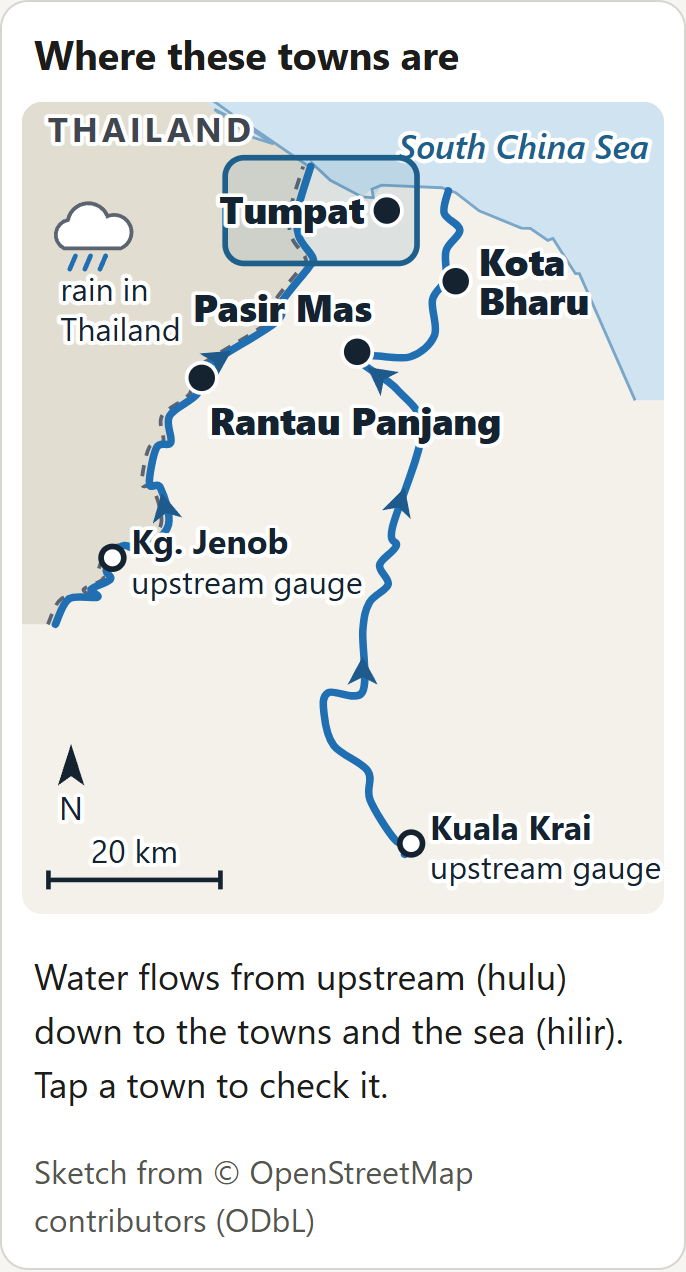
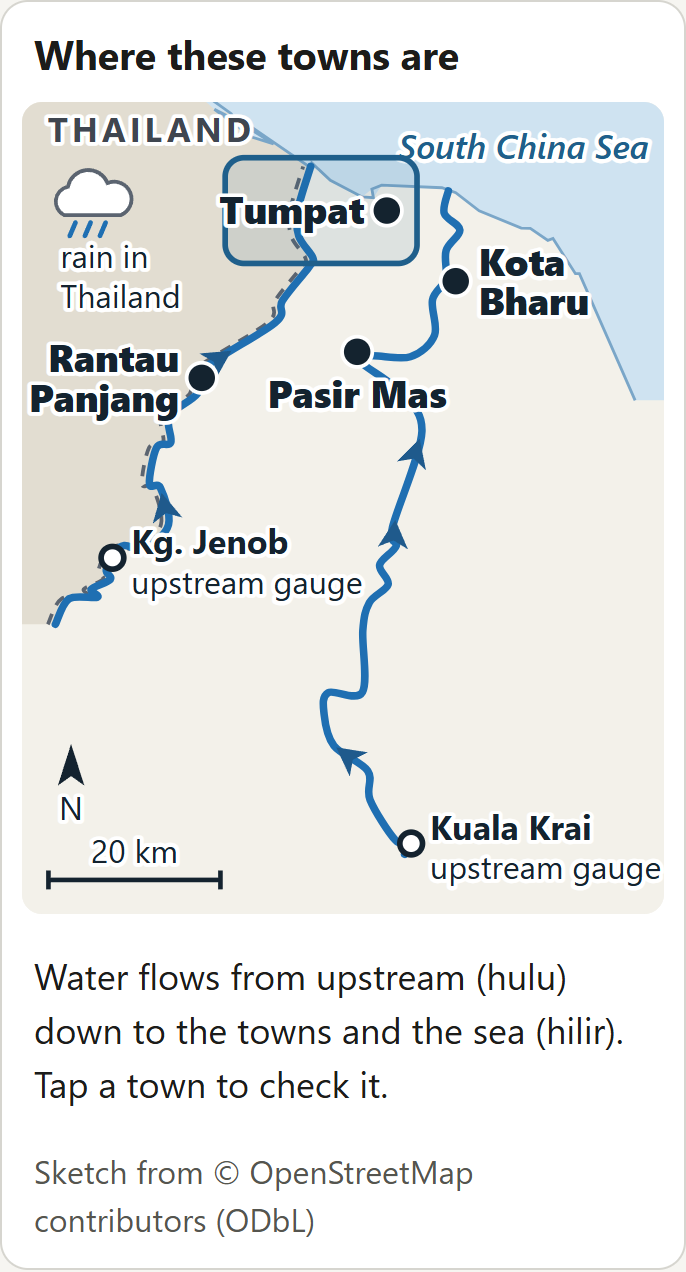
fix: B-87 map labels by their own dots: Rantau Panjang left over Thailand (two lines), Pasir Mas below its dot, rain cloud up; test that each label is nearest its own dot; README test count 944

Changed region(s): [[0.0306, 0.1226, 0.7347, 0.4292], [0.5204, 0.5212, 0.551, 0.5519], [0.4898, 0.5825, 0.5204, 0.6132]]

diff --git a/app/web/index.html b/app/web/index.html
@@ -229,14 +229,14 @@
 <path d="M324.7 158.0 L295.2 90.9 L293.1 90.9 L281.2 72.3 L278.5 73.3 L269.2 66.9 L264.4 66.8 L242.1 57.6 L229.7 48.0 L222.4 45.4 L190.5 44.0 L185.3 46.1 L186.1 50.7 L180.1 50.3 L163.3 41.5 L153.8 32.6 L154.0 34.3 L151.5 33.8 L114.0 8.1 L113.9 9.9 L133.2 22.2 L122.1 18.7 L101.9 3.9 L112.7 9.4 L110.8 6.2 L77.4 -17.8 L43.4 -56.9 L31.3 -60.2 L23.0 -70.0 L20.7 -67.7 L13.5 -71.2 L-15.4 -108.7 L-31.0 -132.6" class="m-coast"/>
 <path d="M202.6 398.4 C203.0 397.4 206.0 393.4 205.2 392.2 C204.4 391.0 201.3 394.8 197.8 391.0 C194.3 387.2 186.8 375.6 184.3 369.5 C181.9 363.4 186.3 359.0 183.1 354.2 C179.9 349.4 169.0 345.9 165.2 340.9 C161.3 335.9 160.5 329.0 160.0 324.3 C159.5 319.6 158.7 314.8 162.1 312.8 C165.5 310.8 177.2 318.0 180.3 312.5 C183.4 307.0 179.9 287.8 180.5 279.9 C181.1 272.0 181.8 269.2 184.0 265.1 C186.2 261.0 193.0 258.8 193.9 255.5 C194.8 252.2 188.7 248.6 189.4 245.2 C190.1 241.8 197.1 238.4 198.2 235.1 C199.3 231.8 193.9 235.3 196.2 225.2 C198.5 215.1 211.4 186.6 211.8 174.5 C212.2 162.4 204.2 158.6 198.9 152.5 C193.6 146.4 182.2 141.1 179.9 138.1 C177.6 135.1 180.8 134.9 185.1 134.4 C189.4 133.9 200.1 136.7 205.7 134.9 C211.3 133.1 216.6 128.5 218.5 123.5 C220.4 118.5 216.4 109.8 217.4 104.8 C218.4 99.8 223.2 98.1 224.4 93.8 C225.6 89.5 223.3 83.0 224.6 78.7 C225.8 74.4 232.1 71.1 231.9 67.8 C231.7 64.5 224.6 62.3 223.6 58.9 C222.6 55.5 225.4 49.1 225.8 47.1" class="m-river"/>
 <path d="M17.7 276.6 C18.9 274.4 21.2 265.5 24.9 263.1 C28.6 260.7 37.9 263.2 39.9 262.3 C41.9 261.4 35.6 259.6 36.7 258.0 C37.9 256.4 45.5 254.5 46.8 252.8 C48.1 251.1 44.3 250.1 44.6 247.8 C44.9 245.5 46.9 241.1 48.5 238.9 C50.1 236.8 51.5 235.3 54.2 234.9 C57.0 234.5 61.1 238.3 65.0 236.5 C68.9 234.7 76.2 229.2 77.6 223.8 C79.0 218.4 75.0 207.9 73.3 204.3 C71.6 200.7 67.8 205.8 67.5 202.2 C67.2 198.6 69.4 186.7 71.3 183.0 C73.2 179.3 77.7 183.0 78.8 180.2 C79.9 177.4 75.8 170.6 78.1 166.3 C80.4 162.0 90.0 158.5 92.9 154.4 C95.9 150.3 88.9 147.9 95.8 141.6 C102.7 135.3 127.1 122.8 134.1 116.8 C141.1 110.8 134.9 110.2 137.9 105.3 C140.9 100.4 149.2 91.3 151.9 87.5 C154.6 83.7 154.9 85.1 154.0 82.4 C153.1 79.7 147.9 75.3 146.6 71.1 C145.3 66.9 144.9 63.6 146.0 57.4 C147.1 51.2 151.8 38.0 152.9 34.1" class="m-river"/>
-<path d="M-7 -8 L8 0 L-7 8 L-3 0 Z" transform="translate(180.4 301.6) rotate(-90)" class="m-arrow"/><path d="M-7 -8 L8 0 L-7 8 L-3 0 Z" transform="translate(200.3 211.9) rotate(-73)" class="m-arrow"/><path d="M-7 -8 L8 0 L-7 8 L-3 0 Z" transform="translate(189.2 145.2) rotate(-143)" class="m-arrow"/><path d="M-7 -8 L8 0 L-7 8 L-3 0 Z" transform="translate(75.6 214.8) rotate(-102)" class="m-arrow"/><path d="M-7 -8 L8 0 L-7 8 L-3 0 Z" transform="translate(104.2 136.1) rotate(-33)" class="m-arrow"/>
+<path d="M-7 -8 L8 0 L-7 8 L-3 0 Z" transform="translate(172.8 346.6) rotate(-143)" class="m-arrow"/><path d="M-7 -8 L8 0 L-7 8 L-3 0 Z" transform="translate(197.0 229.2) rotate(-85)" class="m-arrow"/><path d="M-7 -8 L8 0 L-7 8 L-3 0 Z" transform="translate(208.3 186.0) rotate(-73)" class="m-arrow"/><path d="M-7 -8 L8 0 L-7 8 L-3 0 Z" transform="translate(75.6 214.8) rotate(-102)" class="m-arrow"/><path d="M-7 -8 L8 0 L-7 8 L-3 0 Z" transform="translate(104.2 136.1) rotate(-33)" class="m-arrow"/>
 <text x="13.6" y="21.1" class="m-label m-thai-label" data-t="map_thailand"></text>
-<g transform="translate(36.3 71.5)" class="m-cloud"><path d="M-14 6 a8 8 0 0 1 2 -15 a11 11 0 0 1 21 -2 a8 8 0 0 1 7 17 Z"/><path d="M-8 10 l-3 7 M0 10 l-3 7 M8 10 l-3 7" class="m-rain"/><text x="-16" y="34" class="m-label m-small" data-t="map_rain1"></text><text x="-16" y="55" class="m-label m-small" data-t="map_rain2"></text></g>
+<g transform="translate(36.3 53.9)" class="m-cloud"><path d="M-14 6 a8 8 0 0 1 2 -15 a11 11 0 0 1 21 -2 a8 8 0 0 1 7 17 Z"/><path d="M-8 10 l-3 7 M0 10 l-3 7 M8 10 l-3 7" class="m-rain"/><text x="-16" y="34" class="m-label m-small" data-t="map_rain1"></text><text x="-16" y="55" class="m-label m-small" data-t="map_rain2"></text></g>
 <text x="332" y="30.1" class="m-label m-sea-label" text-anchor="end" data-t="map_sea"></text>
 <circle cx="206.1" cy="392.7" r="6" class="m-gauge"/><text x="216.1" y="390.7" text-anchor="start" class="m-label">Kuala Krai</text><text x="216.1" y="411.7" text-anchor="start" class="m-label m-small" data-t="map_gauge"></text>
 <circle cx="47.9" cy="241.4" r="6" class="m-gauge"/><text x="57.9" y="239.4" text-anchor="start" class="m-label">Kg. Jenob</text><text x="57.9" y="260.4" text-anchor="start" class="m-label m-small" data-t="map_gauge"></text>
-<g class="m-town" role="button" tabindex="0" data-town="Pasir Mas"><rect x="65.1" y="86.3" width="128.4" height="54" rx="10" class="m-hit"/><circle cx="177.5" cy="132.3" r="8" class="m-dot"/><text x="185.5" y="116.30000000000001" text-anchor="end" class="m-label m-town-label">Pasir Mas</text></g>
-<g class="m-town" role="button" tabindex="0" data-town="Rantau Panjang"><rect x="79.2" y="141.1" width="186.4" height="56" rx="10" class="m-hit"/><circle cx="95.2" cy="146.1" r="8" class="m-dot"/><text x="99.2" y="176.1" text-anchor="start" class="m-label m-town-label">Rantau Panjang</text></g>
+<g class="m-town" role="button" tabindex="0" data-town="Pasir Mas"><rect x="119.3" y="124.3" width="116.4" height="56" rx="10" class="m-hit"/><circle cx="177.5" cy="132.3" r="8" class="m-dot"/><text x="177.5" y="162.3" text-anchor="middle" class="m-label m-town-label">Pasir Mas</text></g>
+<g class="m-town" role="button" tabindex="0" data-town="Rantau Panjang"><rect x="0.0" y="118.1" width="111.2" height="56" rx="10" class="m-hit"/><circle cx="95.2" cy="146.1" r="8" class="m-dot"/><text x="83.2" y="143.1" text-anchor="end" class="m-label m-town-label">Rantau<tspan x="83.2" dy="21">Panjang</tspan></text></g>
 <g class="m-town" role="button" tabindex="0" data-town="Kota Bharu"><rect x="213.7" y="66.9" width="90.0" height="56" rx="10" class="m-hit"/><circle cx="229.7" cy="94.9" r="8" class="m-dot"/><text x="241.7" y="91.9" class="m-label m-town-label">Kota<tspan x="241.7" dy="21">Bharu</tspan></text></g>
 <g class="m-town" role="button" tabindex="0" data-town="Tumpat"><rect x="107.6" y="29.5" width="101.6" height="56" rx="10" class="m-hit"/><circle cx="193.2" cy="57.5" r="8" class="m-dot"/><text x="181.2" y="64.5" text-anchor="end" class="m-label m-town-label">Tumpat</text></g>
 <g transform="translate(26 356)" class="m-north"><path d="M0 -16 L7 6 L0 1 L-7 6 Z"/><text x="0" y="24" text-anchor="middle" class="m-label m-small">N</text></g>

diff --git a/scripts/make_home_map.py b/scripts/make_home_map.py
@@ -31,7 +31,7 @@ DRAW_KM = 0.6                                    # simplified again when drawn, 
 UPSTREAM = ("5521044_DKKI0014", "_DTMH0008")    # Sg. Kelantan di Kuala Krai, Sg. Golok di Kg. Jenob
 # Label side per town, chosen so the four tap targets never overlap (Tumpat / Kota Bharu / Pasir Mas are close)
 # (side, how far the label's centre / start moves right of the dot). Measured at 375 px: no two targets overlap.
-SIDE = {"Rantau Panjang": ("right-below", 0), "Pasir Mas": ("above-end", 0), "Kota Bharu": ("right2", 0),
+SIDE = {"Rantau Panjang": ("left2", 0), "Pasir Mas": ("below", 0), "Kota Bharu": ("right2", 0),
         "Tumpat": ("left", 0)}
 
 
@@ -212,10 +212,10 @@ def build():
         parts.append(f'<path d="{path(line, xy)}" class="m-coast"/>')
     for line in (kel, golok):
         parts.append(f'<path d="{curve(line, xy)}" class="m-river"/>')
-    parts.append(arrows(kel, xy, (0.22, 0.5, 0.74)) + arrows(golok, xy, ([JPS reading], [JPS reading])))   # 3 + 2, downstream
+    parts.append(arrows(kel, xy, (0.2, [JPS reading], [JPS reading])) + arrows(golok, xy, ([JPS reading], [JPS reading])))   # 3 + 2, downstream
     tx, ty = xy(6.27, 101.815)
     parts.append(f'<text x="{tx}" y="{ty}" class="m-label m-thai-label" data-t="map_thailand"></text>')
-    cx, cy = xy(6.17, 101.86)                    # rain cloud inside the Thai side, clear of the river
+    cx, cy = xy(6.205, 101.86)                   # rain cloud inside the Thai side, above the Rantau Panjang label
     parts.append(f'<g transform="translate({cx} {cy})" class="m-cloud"><path d="M-14 6 a8 8 0 0 1 2 -15 a11 11 0 0 1 '
                  f'21 -2 a8 8 0 0 1 7 17 Z"/><path d="M-8 10 l-3 7 M0 10 l-3 7 M8 10 l-3 7" class="m-rain"/>'
                  f'<text x="-16" y="34" class="m-label m-small" data-t="map_rain1"></text>'
@@ -234,7 +234,13 @@ def build():
     for name, lat, lon in towns:
         x, y = xy(lat, lon)
         (side, dx), wl = SIDE[name], len(name) * 11.6     # label width at 20 units, bold
-        if side == "right2":                        # two lines (Kota / Bharu): fits inside the map's east edge
+        if side == "left2":                         # two lines over the Thai side (Rantau / Panjang), right-aligned
+            first, second = name.split(" ", 1)
+            wl = max(len(first), len(second)) * 11.6
+            label = (f'<text x="{x - 12}" y="{y - 3}" text-anchor="end" class="m-label m-town-label">{first}'
+                     f'<tspan x="{x - 12}" dy="21">{second}</tspan></text>')
+            box = (max(0.0, x - 28 - wl), y - 28, x + 16 - max(0.0, x - 28 - wl), 56)
+        elif side == "right2":                      # two lines (Kota / Bharu): fits inside the map's east edge
             first, second = name.split(" ", 1)
             wl = max(len(first), len(second)) * 11.6
             label = (f'<text x="{x + 12}" y="{y - 3}" class="m-label m-town-label">{first}'
@@ -249,8 +255,8 @@ def build():
         elif side == "above-end":                   # above-left of the dot, ending just past it
             lx, ly, anchor, box = x + 8, y - 16, "end", (x + 16 - wl - 24, y - 46, wl + 24, 54)
         else:
-            lx, ly, anchor, box = x + dx, y + 30, "middle", (x + dx - wl / 2 - 6, y - 16, wl + 12, 56)
-        if side != "right2":
+            lx, ly, anchor, box = x + dx, y + 30, "middle", (x + dx - wl / 2 - 6, y - 8, wl + 12, 56)
+        if side not in ("right2", "left2"):
             label = f'<text x="{lx}" y="{ly}" text-anchor="{anchor}" class="m-label m-town-label">{name}</text>'
         bx, by, bw, bh = (round(v, 1) for v in box)
         parts.append(f'<g class="m-town" role="button" tabindex="0" data-town="{name}">'

diff --git a/tests/test_home_map.py b/tests/test_home_map.py
@@ -61,3 +61,20 @@ def test_map_wording_and_placement():
     assert PAGE.index('id="towns"') < PAGE.index('id="few-readings"') < PAGE.index('id="map-box"')
     assert SVG.count('class="m-gauge"') == 2 and "Kuala Krai" in SVG and "Kg. Jenob" in SVG
     assert "20 km" in SVG and 'class="m-north"' in SVG and 'class="m-cloud"' in SVG
+
+
+def test_each_town_label_is_nearest_its_own_dot():
+    """Cowork 24 Oct (5c): a label never reads as another town's - its centre is nearer its own dot than any other."""
+    dots, labels = {}, {}
+    for m in re.finditer(r'data-town="([^"]+)">.*?<circle cx="([\d.]+)" cy="([\d.]+)" r="8" class="m-dot"/>'
+                         r'<text x="([\d.]+)" y="([\d.]+)"(?: text-anchor="(\w+)")?[^>]*>([^<]+)(?:<tspan[^>]*>([^<]+))?',
+                         SVG):
+        town, cx, cy, tx, ty, anchor, first, second = m.groups()
+        w = max(len(first), len(second or "")) * 11.6
+        x0 = float(tx) - (w if anchor == "end" else w / 2 if anchor == "middle" else 0)
+        dots[town] = (float(cx), float(cy))
+        labels[town] = (x0 + w / 2, float(ty) - 7 + (10 if second else 0))
+    assert set(dots) == set(TOWNS)
+    for town, (lx, ly) in labels.items():
+        own = (lx - dots[town][0]) ** 2 + (ly - dots[town][1]) ** 2
+        assert all(own < (lx - x) ** 2 + (ly - y) ** 2 for t, (x, y) in dots.items() if t != town), town

diff --git a/docs/OPEN.md b/docs/OPEN.md
@@ -4,7 +4,7 @@ Only two kinds of item live here (Husaini 23 Oct): **open audit findings** and *
 (what to build, in what order) is the backlog in the private planning folder; IDs `B-xx` / `S-xx` point there.
 Status lives here and in the backlog, never in Claude's memory. A finished item is deleted (git keeps the history).
 
-Last updated: 24 Oct 2026 (after B-71, B-86, A-P2-7, the new web page, the live log, how-it-worked, admin, the answer states, the accessibility pass, publish_trace and the B-88 rain rule). Tests: **943 pass** (13 skipped: live services; 24 Oct). Evals: **34 of 34, ×3** (the Docker job runs them 3 times; 24 Oct at `af05b22`: job 32 s, green).
+Last updated: 24 Oct 2026 (after B-71, B-86, A-P2-7, the new web page, the live log, how-it-worked, admin, the answer states, the accessibility pass, publish_trace and the B-88 rain rule). Tests: **944 pass** (13 skipped: live services; 24 Oct). Evals: **34 of 34, ×3** (the Docker job runs them 3 times; 24 Oct at `af05b22`: job 32 s, green).
 
 ## Open audit findings (audit 2026-10-23, `docs/audit/2026-10-23-audit.md`)
 IDs are never reused. Severity: P2 = schedule, P3 = polish. Husaini 23 Oct: all are **after the hackathon** except A-P2-1 (A-P2-3 fixed in B-85: stalled streams are cut on time).

diff --git a/README.md b/README.md
@@ -219,7 +219,7 @@ its date, kind and how to reproduce it: [`docs/EVIDENCE.md`](docs/EVIDENCE.md).
 - **Critic evaluation (test harness, planted errors, 23 Oct): rejected 2 of 2 (EN + BM), no correct explanation
   wrongly rejected.** The planted errors were a contradiction ("the river is now falling" when it was rising) and an
   exaggeration in BM. They were written into the harness only, never into VEDA or its answers.
-- **Offline test suite (`python -m pytest -q`): 943 tests pass (24 Oct 2026), 13 skipped (they need live services).**
+- **Offline test suite (`python -m pytest -q`): 944 tests pass (24 Oct 2026), 13 skipped (they need live services).**
 - **Safety scenarios (`tests/evals/safety/`, `python scripts/run_evals.py`): 34 scenarios, 34 of 34 pass; pass^3:
   34 of 34 in all 3 repeat runs in CI (the Docker job runs them 3 times on every push; 24 Oct at `af05b22`: green, job
   32 s).** They run offline on the scenes with stand-in models, so they test VEDA's own
